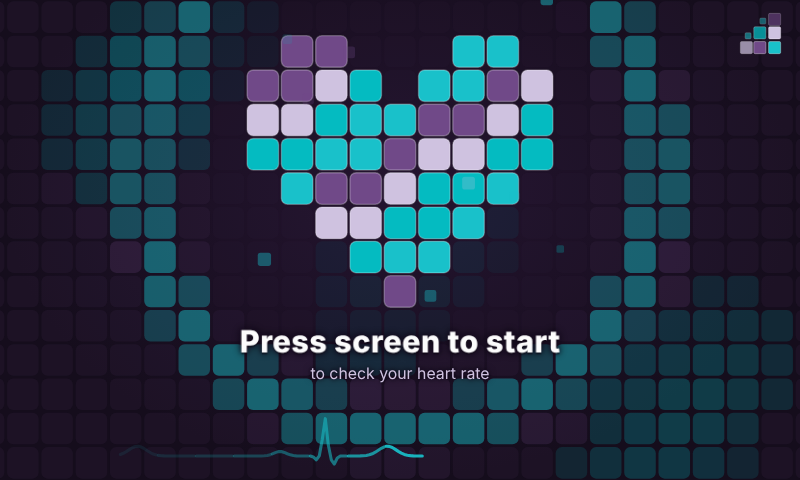
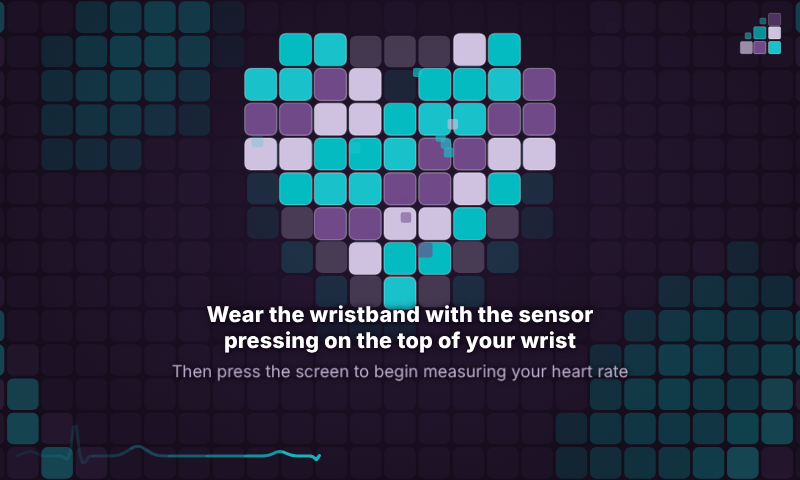
Standby screen: explain how to wear the wristband, then press the screen
The start screen now says "Wear the wristband with the sensor pressing on the top of your wrist"
with "Then press the screen to begin measuring your heart rate" underneath. The longer message
uses smaller type (and a balanced line break) so it fits the 7" display and larger screens;
the "No pulse found" message keeps its large type. The gentle pulse that invites a press moves
to the "press the screen" line. The README is updated. Nothing else changes.

Claude-Session: https://claude.ai/code/session_01DPLfCiUWz7C2cMpaJPKLG2

diff --git a/heart-rate-monitor/pi/web/app.js b/heart-rate-monitor/pi/web/app.js
@@ -1,7 +1,7 @@
 /* BNTS heart rate display.
  *
  * The process (nothing is filtered; every beat the Arduino reports is used):
- *   1. IDLE     "Press screen to start" (animated pixel heart).
+ *   1. IDLE     How to wear the wristband, then "press the screen" (animated pixel heart).
  *   2. MEASURE  After a press the sensor is live. Waits for the first beat, then records every beat for 10 seconds
  *               (heart beats with each real beat, pulse graph, countdown).
  *   3. RESULT   The average heart rate, shown for 10 seconds.
@@ -128,9 +128,10 @@
     shownText = mode;
     const el = $('sb-text'); el.classList.add('swap');
     setTimeout(() => {
-      $('sb-title').textContent = shownText === 'failed' ? 'No pulse found' : 'Press screen to start';
-      $('sb-sub').textContent = shownText === 'failed' ? 'Rest a finger on the sensor and try again' : 'to check your heart rate';
+      $('sb-title').textContent = shownText === 'failed' ? 'No pulse found' : 'Wear the wristband with the sensor pressing on the top of your wrist';
+      $('sb-sub').textContent = shownText === 'failed' ? 'Rest a finger on the sensor and try again' : 'Then press the screen to begin measuring your heart rate';
       el.classList.toggle('press', shownText === 'idle');
+      el.classList.toggle('long', shownText === 'idle');                       // the longer message gets smaller type
       el.classList.remove('swap');
     }, 220);
   }

diff --git a/heart-rate-monitor/pi/web/index.html b/heart-rate-monitor/pi/web/index.html
@@ -9,12 +9,12 @@
 <body>
   <main id="stage">
 
-    <!-- STANDBY: "Press screen to start" (also "No pulse found" if a measurement didn't work) -->
+    <!-- STANDBY: how to wear the wristband, then press the screen (also "No pulse found" if a measurement didn't work) -->
     <section id="standby" class="screen on">
       <canvas id="cv-standby"></canvas>
-      <div id="sb-text" class="press">
-        <h1 id="sb-title">Press screen to start</h1>
-        <p id="sb-sub">to check your heart rate</p>
+      <div id="sb-text" class="press long">
+        <h1 id="sb-title">Wear the wristband with the sensor pressing on the top of your wrist</h1>
+        <p id="sb-sub">Then press the screen to begin measuring your heart rate</p>
       </div>
     </section>
 

diff --git a/heart-rate-monitor/pi/web/style.css b/heart-rate-monitor/pi/web/style.css
@@ -54,8 +54,12 @@ canvas { display: block; }
 }
 #sb-text.swap { opacity: 0; }
 
-#sb-text.press #sb-title { animation: breathe 2.2s ease-in-out infinite; }
+#sb-text.press #sb-sub { animation: breathe 2.2s ease-in-out infinite; }          /* the "press the screen" line gently pulses */
 @keyframes breathe { 0%, 100% { transform: scale(1); opacity: 1; } 50% { transform: scale(1.04); opacity: .86; } }
+
+#sb-text.long { top: 63%; }
+#sb-text.long #sb-title { font-size: 4.5vh; line-height: 1.2; max-width: 92%; margin: 0 auto; text-wrap: balance; }
+#sb-text.long #sb-sub { margin-top: 1.4vh; font-size: 3.4vh; }
 
 #sb-title {
   font-size: 6.4vh; font-weight: 800; letter-spacing: .01em;

diff --git a/heart-rate-monitor/README.md b/heart-rate-monitor/README.md
@@ -3,11 +3,12 @@
 A pulse sensor on an Arduino sends every heartbeat over USB to a Raspberry Pi, and the Pi's 7" touchscreen runs a simple
 press-to-start heart rate check in the BNTS colours:
 
-1. **Press screen to start** - a beating pixel heart waits to be pressed.
+1. **Start screen** - a beating pixel heart. It says to wear the wristband with the sensor pressing on the top of your wrist,
+   then to press the screen to begin measuring your heart rate.
 2. **Measuring** - after the press the sensor is live. The screen asks for a finger, and when the first beat arrives it
    records **every beat for 10 seconds**: the heart beats with each real beat, the pulse graph scrolls, and a countdown runs.
 3. **Your heart rate** - the **average** heart rate with *"Average of N beats over S seconds"*, shown for **10 seconds**.
-4. Back to **Press screen to start**.
+4. Back to the start screen.
 
 If no pulse is found (no finger, or fewer than 3 beats), the screen says *"No pulse found"* for 5 seconds and starts over.
 
@@ -220,7 +221,7 @@ Strong direct sunlight on the sensor can also swamp it.
 2. pulls the latest code from GitHub into your clone (`git pull --ff-only`),
 3. if anything is new, copies it to `/opt/bnts-heart` and restarts the display server.
 
-The screen reloads itself to pick up the new version, but only while it is idle on "Press screen to start", so it never
+The screen reloads itself to pick up the new version, but only while it is idle on the start screen, so it never
 interrupts a measurement. The display always starts: with no internet, or if the pull fails, the version already installed keeps
 running.
 
